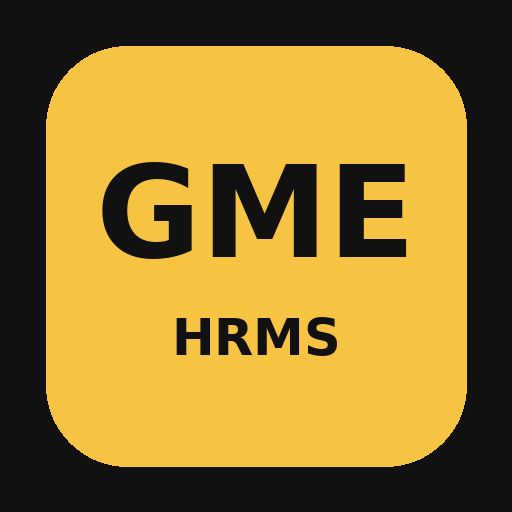
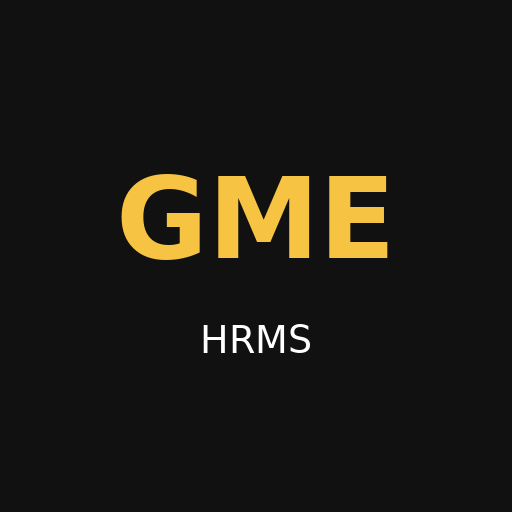
Add files via upload

diff --git a/index.html b/index.html
@@ -3,7 +3,7 @@
 <head>
 <meta charset="UTF-8">
 <meta name="viewport" content="width=device-width,initial-scale=1.0">
-<title>GME HRMS Professional v4.1 PWA</title>
+<title>GME HRMS Professional v4.2 PWA</title>
 <meta name="theme-color" content="#111111">
 <meta name="apple-mobile-web-app-capable" content="yes">
 <meta name="apple-mobile-web-app-status-bar-style" content="black-translucent">
@@ -141,14 +141,23 @@ input[type=number]{text-align:right}.btn{border:0;border-radius:7px;padding:10px
 }
 @media(min-width:801px){.print-area{display:block}}
 
+
+/* Company Account Expense Ledger */
+.ledger-summary{display:grid;grid-template-columns:repeat(4,1fr);gap:10px;margin:12px 0}
+.ledger-summary .stat{min-height:88px}.attachment-list{display:flex;gap:6px;flex-wrap:wrap}
+.file-chip{display:inline-flex;align-items:center;gap:5px;padding:5px 8px;border:1px solid #ccc;border-radius:999px;background:#fafafa;font-size:11px;font-weight:700}
+.filter-bar{display:grid;grid-template-columns:1fr 1fr 1fr auto;gap:10px;align-items:end;margin-bottom:12px}
+@media(max-width:800px){.ledger-summary{grid-template-columns:1fr 1fr}.filter-bar{grid-template-columns:1fr 1fr}.filter-bar .btn{width:100%}}
+@media(max-width:480px){.ledger-summary{grid-template-columns:1fr}.filter-bar{grid-template-columns:1fr}}
+
 </style>
 </head>
 <body>
-<div class="mobile-topbar no-print"><button class="menu-toggle" type="button" onclick="toggleMobileMenu()">☰ Menu</button><strong>GME HRMS v4.1</strong><span id="pwaState" class="pwa-state">Ready</span></div>
+<div class="mobile-topbar no-print"><button class="menu-toggle" type="button" onclick="toggleMobileMenu()">☰ Menu</button><strong>GME HRMS v4.2</strong><span id="pwaState" class="pwa-state">Ready</span></div>
 <div id="offlineBanner" class="offline-banner">Offline mode — changes remain saved on this device</div>
 <div class="app">
 <aside class="sidebar no-print">
-<h1>GME HRMS Pro v4.1</h1><p>Installable PWA · Offline-first · Existing data kept</p>
+<h1>GME HRMS Pro v4.2</h1><p>Installable PWA · Offline-first · Existing data kept</p>
 <div class="nav">
 <button class="active" onclick="showPage('dashboard',this)">Dashboard</button>
 <button onclick="showPage('employees',this)">Employee Master</button>
@@ -160,7 +169,8 @@ input[type=number]{text-align:right}.btn{border:0;border-radius:7px;padding:10px
 <button onclick="showPage('exception',this)">Attendance Exception</button>
 <button onclick="showPage('assets',this)">Asset Issue</button>
 <button onclick="showPage('vehicles',this)">Vehicle Assignment</button>
-<button onclick="showPage('expenses',this)">Expense Management</button>
+<button onclick="showPage('expenses',this)">Staff Claims & Expenses</button>
+<button onclick="showPage('companyexpenses',this)">Company Account Expenses</button>
 <button onclick="showPage('blankforms',this)">Blank Forms</button>
 <button onclick="showPage('reports',this)">Reports</button>
 <button onclick="showPage('settings',this)">Settings</button>
@@ -171,7 +181,7 @@ input[type=number]{text-align:right}.btn{border:0;border-radius:7px;padding:10px
 <section id="dashboard" class="page">
 <div class="dashboard-welcome"><h2 id="welcomeGreeting">Welcome to GME HRMS</h2><p>Manage employees, payroll, claims and company records securely from this device.</p></div>
 <div class="card"><h2>Dashboard</h2><div class="card-body">
-<div class="grid3"><div class="stat"><b id="statEmployees">0</b>Active Employees</div><div class="stat"><b id="statAdvances">0</b>Salary Advance Records</div><div class="stat"><b id="statLeaves">0</b>Leave Records</div><div class="stat"><b id="statOutstations">0</b>Outstation Records</div><div class="stat"><b id="statExceptions">0</b>Attendance Exceptions</div><div class="stat"><b id="statAssets">0</b>Assets Issued</div><div class="stat"><b id="statVehicles">0</b>Vehicle Assignments</div><div class="stat"><b id="statPendingClaims">0</b>Pending Claims</div><div class="stat"><b id="statClaimTotal">RM 0.00</b>Claims This Month</div><div class="stat"><b id="statActivities">0</b>Staff Activities</div></div>
+<div class="grid3"><div class="stat"><b id="statEmployees">0</b>Active Employees</div><div class="stat"><b id="statAdvances">0</b>Salary Advance Records</div><div class="stat"><b id="statLeaves">0</b>Leave Records</div><div class="stat"><b id="statOutstations">0</b>Outstation Records</div><div class="stat"><b id="statExceptions">0</b>Attendance Exceptions</div><div class="stat"><b id="statAssets">0</b>Assets Issued</div><div class="stat"><b id="statVehicles">0</b>Vehicle Assignments</div><div class="stat"><b id="statPendingClaims">0</b>Pending Claims</div><div class="stat"><b id="statClaimTotal">RM 0.00</b>Claims This Month</div><div class="stat"><b id="statActivities">0</b>Staff Activities</div><div class="stat"><b id="statCompanyExpenseMonth">RM 0.00</b>Company Expenses This Month</div><div class="stat"><b id="statCompanyExpenseRecords">0</b>Company Expense Records</div></div>
 <div id="dashboardBackupStatus" class="backup-status warn" style="margin-top:14px">Backup status is being checked…</div>
 <p class="note">Your work is saved automatically in this browser. Export a JSON backup regularly so the records can be restored on another device or after browser data is cleared.</p>
 <button class="btn yellow" onclick="openBackupManager()">Open Backup Manager</button><button id="installAppBtn" class="btn green hidden" onclick="installPWA()">Install App</button><div id="iosInstallHelp" class="install-card hidden"><b>Install on iPhone / iPad</b>Open this site in Safari, tap <b>Share</b>, then choose <b>Add to Home Screen</b>.</div><input type="file" id="importFile" class="hidden" accept="application/json,.json" onchange="importBackup(event)">
@@ -380,6 +390,45 @@ input[type=number]{text-align:right}.btn{border:0;border-radius:7px;padding:10px
 <div id="claimPrint" class="print-area"></div>
 </section>
 
+
+<section id="companyexpenses" class="page hidden">
+<div class="card"><h2>Company Account Expenses</h2><div class="card-body">
+<p class="note">Record payments made directly using the company bank account, company debit card, DuitNow, cheque or company cash. These records are separate from staff claims and payroll reimbursements.</p>
+<div class="grid3">
+<div><label>Expense Record No.</label><input id="coExpNo" readonly></div>
+<div><label>Payment Date</label><input id="coExpDate" type="date"></div>
+<div><label>Accounting Month</label><input id="coExpMonth" type="month"></div>
+<div><label>Supplier / Payee</label><input id="coExpSupplier" placeholder="Company or person paid"></div>
+<div><label>Expense Category</label><select id="coExpCategory"><option>Battery / Stock Purchase</option><option>Vehicle & Fuel</option><option>Shop Rental</option><option>Utilities</option><option>Telephone / Internet</option><option>Salary / Payroll Payment</option><option>EPF / SOCSO / EIS</option><option>Tax / Government Fee</option><option>Office Supplies</option><option>Equipment / Tools</option><option>Repairs & Maintenance</option><option>Marketing / Advertising</option><option>Insurance</option><option>Professional Fee</option><option>Bank Charges</option><option>Delivery / Courier</option><option>Staff Welfare</option><option>Other Company Expense</option></select></div>
+<div><label>Amount Paid (RM)</label><input id="coExpAmount" type="number" min="0" step="0.01" value="0"></div>
+<div><label>Paid From</label><select id="coExpAccount"><option>Company Bank Account</option><option>Company Debit Card</option><option>Company Credit Card</option><option>Company Cash</option><option>Cheque</option><option>DuitNow / Bank Transfer</option><option>Other Company Account</option></select></div>
+<div><label>Bank / Account Name</label><input id="coExpBank" placeholder="e.g. Public Bank Current Account"></div>
+<div><label>Payment Reference</label><input id="coExpReference" placeholder="Transaction ID / cheque no. / invoice no."></div>
+<div><label>Invoice / Receipt No.</label><input id="coExpInvoice"></div>
+<div><label>Payment Status</label><select id="coExpStatus"><option>Paid</option><option>Pending</option><option>Partially Paid</option><option>Cancelled</option></select></div>
+<div><label>Tax Treatment</label><select id="coExpTax"><option>Normal Business Expense</option><option>Capital / Asset Purchase</option><option>Non-Deductible / Personal</option><option>To Be Confirmed</option></select></div>
+</div>
+<label>Description / Purpose</label><textarea id="coExpDescription" placeholder="What was purchased or why this payment was made"></textarea>
+<div class="grid2">
+<div><label>Upload Invoices / Receipts / Pictures</label><input id="coExpFiles" type="file" multiple accept="image/*,.pdf,.doc,.docx,.xls,.xlsx" capture="environment"><p class="note">You may select several files. On iPhone, this can also open the camera. Keep each file reasonably small because files are stored in this browser and included in JSON backups.</p></div>
+<div><label>Attachment Remarks</label><input id="coExpFileRemarks" placeholder="Optional notes for uploaded documents"><div id="coExpExistingFiles" class="attachment-list" style="margin-top:8px"></div></div>
+</div>
+<button class="btn yellow" onclick="newCompanyExpense()">New Record</button>
+<button class="btn green" onclick="saveCompanyExpense()">Save Company Expense</button>
+<button class="btn red" onclick="deleteCompanyExpense()">Delete Selected</button>
+</div></div>
+<div class="card"><h2>Monthly Company Expense Tracking</h2><div class="card-body">
+<div class="filter-bar">
+<div><label>Month</label><input id="coExpFilterMonth" type="month" onchange="refreshCompanyExpenseRegister()"></div>
+<div><label>Category</label><select id="coExpFilterCategory" onchange="refreshCompanyExpenseRegister()"><option value="">All Categories</option></select></div>
+<div><label>Search</label><input id="coExpSearch" placeholder="Supplier, reference or description" oninput="refreshCompanyExpenseRegister()"></div>
+<button class="btn secondary" onclick="exportCompanyExpensesCSV()">Export CSV</button>
+</div>
+<div class="ledger-summary"><div class="stat"><b id="coExpMonthTotal">RM 0.00</b>Selected Month Total</div><div class="stat"><b id="coExpPaidTotal">RM 0.00</b>Paid Total</div><div class="stat"><b id="coExpPendingTotal">RM 0.00</b>Pending / Partial</div><div class="stat"><b id="coExpRecordCount">0</b>Records</div></div>
+<table class="table" id="companyExpenseTable"></table>
+</div></div>
+</section>
+
 <section id="blankforms" class="page hidden"><div class="card"><h2>Blank Forms</h2><div class="card-body">
 <button class="btn yellow" onclick="showPage('advance');generateAdvanceForm(true);printOnly('advance')">Print Blank Salary Advance Form</button>
 <button class="btn yellow" onclick="showPage('leave');generateLeaveForm(true);printOnly('leave')">Print Blank Leave Form</button>
@@ -391,7 +440,7 @@ input[type=number]{text-align:right}.btn{border:0;border-radius:7px;padding:10px
 <button class="btn secondary" onclick="showPage('payroll');generatePayslip(true);printOnly('payroll')">Print Blank Payslip</button>
 </div></div></section>
 
-<section id="reports" class="page hidden"><div class="card"><h2>Reports</h2><div class="card-body"><h3>Salary Advance Records</h3><table class="table" id="advanceTable"></table><h3>Leave Records</h3><table class="table" id="leaveTable"></table><h3>Outstation Allowance Records</h3><table class="table" id="outstationTable"></table><h3>Attendance Exception Records</h3><table class="table" id="exceptionTable"></table><h3>Asset Records</h3><table class="table" id="assetTable"></table><h3>Vehicle Assignment Records</h3><table class="table" id="vehicleTable"></table><h3>Expense & Claim Records</h3><table class="table" id="expenseTable"></table></div></div></section>
+<section id="reports" class="page hidden"><div class="card"><h2>Reports</h2><div class="card-body"><h3>Salary Advance Records</h3><table class="table" id="advanceTable"></table><h3>Leave Records</h3><table class="table" id="leaveTable"></table><h3>Outstation Allowance Records</h3><table class="table" id="outstationTable"></table><h3>Attendance Exception Records</h3><table class="table" id="exceptionTable"></table><h3>Asset Records</h3><table class="table" id="assetTable"></table><h3>Vehicle Assignment Records</h3><table class="table" id="vehicleTable"></table><h3>Expense & Claim Records</h3><table class="table" id="expenseTable"></table><h3>Company Account Expense Records</h3><table class="table" id="companyExpenseReportTable"></table></div></div></section>
 <section id="settings" class="page hidden"><div class="card"><h2>Company Settings</h2><div class="card-body"><div class="grid2"><div><label>Company Name</label><input id="setCompanyName"></div><div><label>Company Registration No.</label><input id="setCompanyNo"></div><div><label>Telephone</label><input id="setTel"></div><div><label>Email</label><input id="setEmail"></div><div style="grid-column:1/-1"><label>Address</label><textarea id="setAddress"></textarea></div>
 <div><label>Working Hours (Mon–Fri)</label><input id="setWeekdayHours" value="Monday to Friday, 8:00 AM – 5:00 PM"></div>
 <div><label>Working Hours (Saturday)</label><input id="setSaturdayHours" value="Saturday, 8:00 AM – 1:00 PM"></div>
@@ -439,14 +488,14 @@ input[type=number]{text-align:right}.btn{border:0;border-radius:7px;padding:10px
 </div>
 
 <script>
-const defaultData={settings:{companyName:'GME MARKETING',companyNo:'0000200330T',tel:'[phone redacted]',email:'[email redacted]',address:'G-G-60, Lorong Inanam Kapital 5, Inanam Kapital,\\nJalan Nountun, Inanam, 88450 Kota Kinabalu, Sabah',weekdayHours:'Monday to Friday, 8:00 AM – 5:00 PM',saturdayHours:'Saturday, 8:00 AM – 1:00 PM',restDay:'Sunday',publicHoliday:'Malaysia gazetted public holidays applicable in Sabah',probation:'3 months',notice:'1 month',salaryPayment:'On or before the 7th day of the following month',outstationRate:70},employees:[{id:'EMP001',name:'Kwan Khar Lien',ic:'[phone redacted]',position:'General Manager',department:'',bank:'Hong Leong [phone redacted]',salary:2000,allowance:1000,epf:'',socso:'',tax:'',annualEntitlement:8,sickEntitlement:14,documents:[],status:'Active'},{id:'EMP002',name:'Sabri Bin Aris',ic:'[phone redacted]',position:'Store Supervisor',department:'',bank:'Public Bank [phone redacted]',salary:2000,allowance:0,epf:'',socso:'',tax:'',annualEntitlement:8,sickEntitlement:14,documents:[],status:'Active'},{id:'EMP003',name:'John Abed Amran @ Alfred',ic:'[phone redacted]',position:'Lorry Driver',department:'',bank:'',salary:2300,allowance:0,epf:'',socso:'',tax:'',annualEntitlement:8,sickEntitlement:14,documents:[],status:'Active'}],advances:[],leaves:[],outstations:[],exceptions:[],assets:[],vehicles:[],claims:[]}
+const defaultData={settings:{companyName:'GME MARKETING',companyNo:'0000200330T',tel:'[phone redacted]',email:'[email redacted]',address:'G-G-60, Lorong Inanam Kapital 5, Inanam Kapital,\\nJalan Nountun, Inanam, 88450 Kota Kinabalu, Sabah',weekdayHours:'Monday to Friday, 8:00 AM – 5:00 PM',saturdayHours:'Saturday, 8:00 AM – 1:00 PM',restDay:'Sunday',publicHoliday:'Malaysia gazetted public holidays applicable in Sabah',probation:'3 months',notice:'1 month',salaryPayment:'On or before the 7th day of the following month',outstationRate:70},employees:[{id:'EMP001',name:'Kwan Khar Lien',ic:'[phone redacted]',position:'General Manager',department:'',bank:'Hong Leong [phone redacted]',salary:2000,allowance:1000,epf:'',socso:'',tax:'',annualEntitlement:8,sickEntitlement:14,documents:[],status:'Active'},{id:'EMP002',name:'Sabri Bin Aris',ic:'[phone redacted]',position:'Store Supervisor',department:'',bank:'Public Bank [phone redacted]',salary:2000,allowance:0,epf:'',socso:'',tax:'',annualEntitlement:8,sickEntitlement:14,documents:[],status:'Active'},{id:'EMP003',name:'John Abed Amran @ Alfred',ic:'[phone redacted]',position:'Lorry Driver',department:'',bank:'',salary:2300,allowance:0,epf:'',socso:'',tax:'',annualEntitlement:8,sickEntitlement:14,documents:[],status:'Active'}],advances:[],leaves:[],outstations:[],exceptions:[],assets:[],vehicles:[],claims:[],companyExpenses:[]}
 let db=JSON.parse(localStorage.getItem('gmeHRMSv2')||'null')||defaultData, selectedEmpId='';
-function migrateDB(){db.settings=db.settings||defaultData.settings; db.settings.weekdayHours='Monday to Friday, 8:00 AM – 5:00 PM'; db.settings.saturdayHours='Saturday, 8:00 AM – 1:00 PM'; db.settings.restDay='Sunday'; db.settings.publicHoliday='Malaysia gazetted public holidays applicable in Sabah'; db.employees=db.employees||[]; db.advances=db.advances||[]; db.leaves=db.leaves||[]; db.outstations=db.outstations||[]; db.exceptions=db.exceptions||[]; db.assets=db.assets||[]; db.vehicles=db.vehicles||[]; db.claims=db.claims||[]; db.version='4.1';}
+function migrateDB(){db.settings=db.settings||defaultData.settings; db.settings.weekdayHours='Monday to Friday, 8:00 AM – 5:00 PM'; db.settings.saturdayHours='Saturday, 8:00 AM – 1:00 PM'; db.settings.restDay='Sunday'; db.settings.publicHoliday='Malaysia gazetted public holidays applicable in Sabah'; db.employees=db.employees||[]; db.advances=db.advances||[]; db.leaves=db.leaves||[]; db.outstations=db.outstations||[]; db.exceptions=db.exceptions||[]; db.assets=db.assets||[]; db.vehicles=db.vehicles||[]; db.claims=db.claims||[]; db.companyExpenses=db.companyExpenses||[]; db.version='4.2';}
 migrateDB();
 function saveDB(){localStorage.setItem('gmeHRMSv2',JSON.stringify(db));markBackupDirty();refreshAll()}function today(){return new Date().toISOString().slice(0,10)}function monthNow(){let d=new Date();return d.getFullYear()+'-'+String(d.getMonth()+1).padStart(2,'0')}function money(v){return Number(v||0).toLocaleString('en-MY',{minimumFractionDigits:2,maximumFractionDigits:2})}function num(id){return Number(document.getElementById(id)?.value||0)}function emp(id){return db.employees.find(e=>e.id===id)||{}}
 function showPage(id,btn){document.querySelectorAll('.page').forEach(p=>p.classList.add('hidden'));document.getElementById(id).classList.remove('hidden');document.querySelectorAll('.nav button').forEach(b=>b.classList.remove('active'));if(btn)btn.classList.add('active');document.querySelectorAll('.mobile-bottom-nav button').forEach(b=>b.classList.toggle('active',b.dataset.page===id));if(window.innerWidth<=800)window.scrollTo({top:0,behavior:'smooth'});} function mobileGo(id,btn){showPage(id);document.querySelectorAll('.mobile-bottom-nav button').forEach(b=>b.classList.remove('active'));btn.classList.add('active')}
 function nextEmpId(){let max=0;db.employees.forEach(e=>{let m=e.id.match(/(\\d+)/);if(m)max=Math.max(max,+m[1])});return 'EMP'+String(max+1).padStart(3,'0')}
-function refreshAll(){refreshEmployees();refreshSelects();refreshReports();statEmployees.textContent=db.employees.filter(e=>e.status==='Active').length;statAdvances.textContent=db.advances.length;statLeaves.textContent=db.leaves.length;if(document.getElementById('statOutstations'))statOutstations.textContent=(db.outstations||[]).length; if(document.getElementById('statExceptions'))statExceptions.textContent=(db.exceptions||[]).length; if(document.getElementById('statAssets'))statAssets.textContent=(db.assets||[]).filter(a=>a.status==='Issued').length; if(document.getElementById('statVehicles'))statVehicles.textContent=(db.vehicles||[]).filter(v=>v.status==='Assigned').length; if(document.getElementById('statPendingClaims'))statPendingClaims.textContent=(db.claims||[]).filter(c=>['Submitted','Approved'].includes(c.status)).length; if(document.getElementById('statClaimTotal')){let m=monthNow();let total=(db.claims||[]).filter(c=>(c.expenseDate||'').startsWith(m)).reduce((a,c)=>a+Number(c.amount||0),0);statClaimTotal.textContent='RM '+money(total)} if(document.getElementById('statActivities'))statActivities.textContent=(db.claims||[]).filter(c=>c.type==='Staff Welfare / Engagement').length}
+function refreshAll(){refreshEmployees();refreshSelects();refreshReports();statEmployees.textContent=db.employees.filter(e=>e.status==='Active').length;statAdvances.textContent=db.advances.length;statLeaves.textContent=db.leaves.length;if(document.getElementById('statOutstations'))statOutstations.textContent=(db.outstations||[]).length; if(document.getElementById('statExceptions'))statExceptions.textContent=(db.exceptions||[]).length; if(document.getElementById('statAssets'))statAssets.textContent=(db.assets||[]).filter(a=>a.status==='Issued').length; if(document.getElementById('statVehicles'))statVehicles.textContent=(db.vehicles||[]).filter(v=>v.status==='Assigned').length; if(document.getElementById('statPendingClaims'))statPendingClaims.textContent=(db.claims||[]).filter(c=>['Submitted','Approved'].includes(c.status)).length; if(document.getElementById('statClaimTotal')){let m=monthNow();let total=(db.claims||[]).filter(c=>(c.expenseDate||'').startsWith(m)).reduce((a,c)=>a+Number(c.amount||0),0);statClaimTotal.textContent='RM '+money(total)} if(document.getElementById('statActivities'))statActivities.textContent=(db.claims||[]).filter(c=>c.type==='Staff Welfare / Engagement').length; if(document.getElementById('statCompanyExpenseMonth')){let m=monthNow();let t=(db.companyExpenses||[]).filter(x=>(x.month||x.date||'').startsWith(m)&&x.status!=='Cancelled').reduce((s,x)=>s+Number(x.amount||0),0);statCompanyExpenseMonth.textContent='RM '+money(t)} if(document.getElementById('statCompanyExpenseRecords'))statCompanyExpenseRecords.textContent=(db.companyExpenses||[]).length; refreshCompanyExpenseRegister()}
 function refreshEmployees(){employeeTable.innerHTML='<tr><th>ID</th><th>Name</th><th>Position</th><th>Salary</th><th>Status</th><th>Action</th></tr>'+db.employees.map(e=>`<tr><td>${e.id}</td><td>${e.name}</td><td>${e.position||''}</td><td>RM ${money(e.salary)}</td><td>${e.status}</td><td><button class="btn secondary" onclick="editEmployee('${e.id}')">Edit</button></td></tr>`).join('')}
 function refreshSelects(){['payEmployee','advEmployee','leaveEmployee','contractEmployee','outEmployee','exEmployee','assetEmployee','vehEmployee','claimEmployee'].forEach(id=>{let s=document.getElementById(id);if(!s)return;s.innerHTML='<option value="">-- Select Employee --</option>'+db.employees.filter(e=>e.status==='Active').map(e=>`<option value="${e.id}">${e.id} - ${e.name}</option>`).join('')})}
 function newEmployee(){selectedEmpId='';empName.value='';empId.value=nextEmpId();empIc.value='';empPosition.value='';empDepartment.value='';empBank.value='';empEpf.value='';empSocso.value='';empTax.value='';empSalary.value=2000;empAllowance.value=0;empAnnualEntitlement.value=8;empSickEntitlement.value=14;empStatus.value='Active';refreshDocuments()}
@@ -689,6 +738,22 @@ function deleteClaim(no){if(confirm('Delete this claim record?')){db.claims=(db.
 function refreshClaimRegister(){let t=document.getElementById('claimRegisterTable');if(!t)return;t.innerHTML='<tr><th>Claim No.</th><th>Employee</th><th>Date</th><th>Type</th><th>Description</th><th>Budget</th><th>Actual</th><th>Status</th><th>Action</th></tr>'+(db.claims||[]).map(c=>`<tr><td>${c.no||''}</td><td>${emp(c.employee).name||c.employee||''}</td><td>${c.expenseDate||''}</td><td>${c.type||''}</td><td>${c.category||c.description||''}</td><td>RM ${money(c.budget)}</td><td>RM ${money(c.amount)}</td><td>${c.status||''}</td><td><button class="btn secondary" onclick="editClaim('${c.no}')">Edit</button>${c.receipt?`<button class="btn secondary" onclick="openClaimReceipt('${c.no}')">Receipt</button>`:''}<button class="btn red" onclick="deleteClaim('${c.no}')">Delete</button></td></tr>`).join('')}
 function generateClaimForm(blank=false){let c=blank?{}:(db.claims||[]).find(x=>x.no===claimNo.value)||{no:claimNo.value,employee:claimEmployee.value,claimDate:claimDate.value,expenseDate:expenseDate.value,type:claimType.value,category:claimCategory.value,customer:claimCustomer.value,project:claimProject.value,paidBy:claimPaidBy.value,budget:num('claimBudget'),amount:num('claimAmount'),variance:num('claimVariance'),budgetStatus:claimBudgetStatus.value,status:claimStatus.value,approvedBy:claimApprovedBy.value,paymentDate:claimPaymentDate.value,reimburseMethod:claimReimburseMethod.value,description:claimDescription.value,activity:{name:activityName.value,date:activityDate.value,venue:activityVenue.value,organizer:activityOrganizer.value,participants:num('activityParticipants'),names:activityNames.value}};let e=blank?{}:emp(c.employee);let activity=(c.type==='Staff Welfare / Engagement')?`<div class="fbox"><div class="fhead">D. STAFF WELFARE / ENGAGEMENT DETAILS</div>${row('Activity Name',c.activity?.name)}${row('Activity Date',c.activity?.date)}${row('Venue',c.activity?.venue)}${row('Organizer',c.activity?.organizer)}${row('No. of Participants',c.activity?.participants)}${row('Participants',c.activity?.names)}</div>`:'';claimPrint.innerHTML=`<div class="a4">${header('EXPENSE &<br>CLAIM FORM')}<div class="fx2"><div class="fbox"><div class="fhead">A. CLAIMANT INFORMATION</div>${row('Employee Name',e.name)}${row('Employee ID',e.id)}${row('Position',e.position)}${row('Department',e.department)}</div><div class="fbox"><div class="fhead">B. CLAIM INFORMATION</div>${row('Claim No.',blank?'':c.no)}${row('Claim Date',blank?'':c.claimDate)}${row('Expense Date',blank?'':c.expenseDate)}${row('Expense Type',blank?'':c.type)}${row('Category / Item',blank?'':c.category)}${row('Status',blank?'':c.status)}</div></div><div class="fx2"><div class="fbox"><div class="fhead">C. EXPENSE DETAILS</div>${row('Customer / Supplier',blank?'':c.customer)}${row('Project / Job',blank?'':c.project)}${row('Paid By',blank?'':c.paidBy)}${row('Budget Amount',blank?'':'RM '+money(c.budget))}${row('Actual / Claimed',blank?'':'RM '+money(c.amount))}${row('Variance',blank?'':'RM '+money(c.variance))}${row('Budget Status',blank?'':c.budgetStatus)}</div><div class="fbox"><div class="fhead">PAYMENT & APPROVAL</div>${row('Approved By',blank?'':c.approvedBy)}${row('Payment Date',blank?'':c.paymentDate)}${row('Reimbursement Method',blank?'':c.reimburseMethod)}${row('Receipt Attached',blank?'':(c.receipt?'Yes':'No'))}</div></div>${activity}<div class="fbox"><div class="fhead">E. DESCRIPTION / BUSINESS PURPOSE</div><div style="padding:4mm"><div class="multi-line">${blank?'':c.description||''}</div><div class="multi-line"></div></div></div><div class="signature"><div class="sig">Submitted By</div><div class="sig">Checked By</div><div class="sig">Approved By</div></div><div class="footer">Generated by GME Marketing HRMS Professional v4.1</div></div>`}
 
+
+let selectedCompanyExpenseNo='';
+function nextCompanyExpenseNo(){let y=new Date().getFullYear(),max=0;(db.companyExpenses||[]).forEach(x=>{let m=String(x.no||'').match(/(\d+)$/);if(m)max=Math.max(max,Number(m[1]))});return 'CEX-'+y+'-'+String(max+1).padStart(4,'0')}
+function newCompanyExpense(){selectedCompanyExpenseNo='';coExpNo.value=nextCompanyExpenseNo();coExpDate.value=today();coExpMonth.value=monthNow();coExpSupplier.value='';coExpCategory.selectedIndex=0;coExpAmount.value=0;coExpAccount.value='Company Bank Account';coExpBank.value='';coExpReference.value='';coExpInvoice.value='';coExpStatus.value='Paid';coExpTax.value='Normal Business Expense';coExpDescription.value='';coExpFiles.value='';coExpFileRemarks.value='';renderCompanyExpenseFiles([])}
+function readCompanyExpenseFiles(){return Promise.all(Array.from(coExpFiles.files||[]).map(f=>new Promise(resolve=>{if(f.size>8*1024*1024){resolve({error:true,name:f.name});return}let r=new FileReader();r.onload=()=>resolve({name:f.name,type:f.type,size:f.size,data:r.result,remarks:coExpFileRemarks.value,uploadedAt:new Date().toISOString()});r.onerror=()=>resolve(null);r.readAsDataURL(f)})))}
+async function saveCompanyExpense(){if(!coExpDate.value){alert('Please enter the payment date.');return}if(!coExpSupplier.value.trim()){alert('Please enter supplier / payee.');return}if(num('coExpAmount')<=0){alert('Please enter the amount paid.');return}let existing=(db.companyExpenses||[]).find(x=>x.no===coExpNo.value);let files=await readCompanyExpenseFiles();let tooLarge=files.filter(x=>x?.error);if(tooLarge.length){alert('These files are above 8 MB and were not added: '+tooLarge.map(x=>x.name).join(', '));}let valid=files.filter(x=>x&&!x.error);let record={no:coExpNo.value||nextCompanyExpenseNo(),date:coExpDate.value,month:coExpMonth.value||coExpDate.value.slice(0,7),supplier:coExpSupplier.value.trim(),category:coExpCategory.value,amount:num('coExpAmount'),account:coExpAccount.value,bank:coExpBank.value,reference:coExpReference.value,invoice:coExpInvoice.value,status:coExpStatus.value,taxTreatment:coExpTax.value,description:coExpDescription.value,attachments:[...((existing&&existing.attachments)||[]),...valid],updatedAt:new Date().toISOString()};db.companyExpenses=db.companyExpenses||[];let i=db.companyExpenses.findIndex(x=>x.no===record.no);i>=0?db.companyExpenses[i]=record:db.companyExpenses.push(record);selectedCompanyExpenseNo=record.no;saveDB();coExpFiles.value='';renderCompanyExpenseFiles(record.attachments);alert('Company account expense saved.')}
+function editCompanyExpense(no){let x=(db.companyExpenses||[]).find(e=>e.no===no);if(!x)return;selectedCompanyExpenseNo=x.no;coExpNo.value=x.no;coExpDate.value=x.date||'';coExpMonth.value=x.month||String(x.date||'').slice(0,7);coExpSupplier.value=x.supplier||'';coExpCategory.value=x.category||'Other Company Expense';coExpAmount.value=x.amount||0;coExpAccount.value=x.account||'Company Bank Account';coExpBank.value=x.bank||'';coExpReference.value=x.reference||'';coExpInvoice.value=x.invoice||'';coExpStatus.value=x.status||'Paid';coExpTax.value=x.taxTreatment||'To Be Confirmed';coExpDescription.value=x.description||'';coExpFiles.value='';coExpFileRemarks.value='';renderCompanyExpenseFiles(x.attachments||[]);showPage('companyexpenses');window.scrollTo({top:0,behavior:'smooth'})}
+function deleteCompanyExpense(){let no=selectedCompanyExpenseNo||coExpNo.value;if(!no||!(db.companyExpenses||[]).some(x=>x.no===no)){alert('Please select an existing record first.');return}if(confirm('Delete company expense '+no+'?')){db.companyExpenses=(db.companyExpenses||[]).filter(x=>x.no!==no);saveDB();newCompanyExpense()}}
+function renderCompanyExpenseFiles(files){let box=document.getElementById('coExpExistingFiles');if(!box)return;box.innerHTML=files.length?files.map((f,i)=>`<span class="file-chip">📎 ${escapeHtml(f.name||'Attachment')} <button type="button" class="btn secondary" style="min-height:28px;padding:3px 7px;margin:0" onclick="openCompanyExpenseFile(${i})">Open</button><button type="button" class="btn red" style="min-height:28px;padding:3px 7px;margin:0" onclick="removeCompanyExpenseFile(${i})">×</button></span>`).join(''):'<span class="note">No attachment saved.</span>'}
+function openCompanyExpenseFile(index){let x=(db.companyExpenses||[]).find(e=>e.no===(selectedCompanyExpenseNo||coExpNo.value));let f=x?.attachments?.[index];if(!f?.data){alert('Attachment not found.');return}let a=document.createElement('a');a.href=f.data;a.download=f.name||'attachment';a.target='_blank';a.click()}
+function removeCompanyExpenseFile(index){let x=(db.companyExpenses||[]).find(e=>e.no===(selectedCompanyExpenseNo||coExpNo.value));if(!x)return;if(confirm('Remove this attachment?')){x.attachments.splice(index,1);saveDB();renderCompanyExpenseFiles(x.attachments)}}
+function escapeHtml(v){return String(v??'').replace(/[&<>"']/g,c=>({'&':'&amp;','<':'&lt;','>':'&gt;','"':'&quot;',"'":'&#039;'}[c]))}
+function companyExpenseFiltered(){let m=document.getElementById('coExpFilterMonth')?.value||'',cat=document.getElementById('coExpFilterCategory')?.value||'',q=(document.getElementById('coExpSearch')?.value||'').toLowerCase();return (db.companyExpenses||[]).filter(x=>(!m||(x.month||x.date||'').startsWith(m))&&(!cat||x.category===cat)&&(!q||[x.no,x.supplier,x.reference,x.invoice,x.description,x.category].join(' ').toLowerCase().includes(q))).sort((a,b)=>String(b.date||'').localeCompare(String(a.date||'')))}
+function refreshCompanyExpenseRegister(){let cat=document.getElementById('coExpFilterCategory');if(cat&&cat.options.length<=1){let current=cat.value;let cats=[...new Set((db.companyExpenses||[]).map(x=>x.category).filter(Boolean))].sort();cat.innerHTML='<option value="">All Categories</option>'+cats.map(x=>`<option>${escapeHtml(x)}</option>`).join('');cat.value=current}let rows=companyExpenseFiltered();let total=rows.filter(x=>x.status!=='Cancelled').reduce((s,x)=>s+Number(x.amount||0),0),paid=rows.filter(x=>x.status==='Paid').reduce((s,x)=>s+Number(x.amount||0),0),pending=rows.filter(x=>['Pending','Partially Paid'].includes(x.status)).reduce((s,x)=>s+Number(x.amount||0),0);if(document.getElementById('coExpMonthTotal'))coExpMonthTotal.textContent='RM '+money(total);if(document.getElementById('coExpPaidTotal'))coExpPaidTotal.textContent='RM '+money(paid);if(document.getElementById('coExpPendingTotal'))coExpPendingTotal.textContent='RM '+money(pending);if(document.getElementById('coExpRecordCount'))coExpRecordCount.textContent=rows.length;let t=document.getElementById('companyExpenseTable');if(t)t.innerHTML='<tr><th>No.</th><th>Date</th><th>Supplier / Payee</th><th>Category</th><th>Paid From</th><th>Reference</th><th>Amount</th><th>Status</th><th>Files</th><th>Action</th></tr>'+rows.map(x=>`<tr><td>${escapeHtml(x.no)}</td><td>${escapeHtml(x.date)}</td><td>${escapeHtml(x.supplier)}</td><td>${escapeHtml(x.category)}</td><td>${escapeHtml(x.account)}</td><td>${escapeHtml(x.reference||x.invoice||'')}</td><td>RM ${money(x.amount)}</td><td>${escapeHtml(x.status)}</td><td>${(x.attachments||[]).length}</td><td><button class="btn secondary" onclick="editCompanyExpense('${x.no}')">Edit</button></td></tr>`).join('')}
+function exportCompanyExpensesCSV(){let rows=companyExpenseFiltered();if(!rows.length){alert('No company expense records found for the selected filter.');return}let headers=['Record No','Payment Date','Accounting Month','Supplier / Payee','Category','Description','Paid From','Bank / Account','Payment Reference','Invoice / Receipt No','Amount (RM)','Status','Tax Treatment','Attachment Count'];let csv=[headers,...rows.map(x=>[x.no,x.date,x.month,x.supplier,x.category,x.description,x.account,x.bank,x.reference,x.invoice,Number(x.amount||0).toFixed(2),x.status,x.taxTreatment,(x.attachments||[]).length])].map(r=>r.map(v=>'"'+String(v??'').replace(/"/g,'""')+'"').join(',')).join('\r\n');let blob=new Blob(['\ufeff'+csv],{type:'text/csv;charset=utf-8'}),a=document.createElement('a'),url=URL.createObjectURL(blob);a.href=url;a.download='GME_Company_Expenses_'+(coExpFilterMonth.value||'All')+'.csv';a.click();setTimeout(()=>URL.revokeObjectURL(url),1000)}
+
 function refreshReports(){
  refreshClaimRegister();
  advanceTable.innerHTML='<tr><th>Employee</th><th>Date</th><th>Amount</th><th>Type</th><th>Status</th></tr>'+db.advances.map(a=>`<tr><td>${a.employee}</td><td>${a.date}</td><td>RM ${money(a.amount)}</td><td>${a.type}</td><td>${a.status}</td></tr>`).join('');
@@ -698,6 +763,7 @@ function refreshReports(){
  if(document.getElementById('assetTable')) assetTable.innerHTML='<tr><th>Employee</th><th>Issue Date</th><th>Type</th><th>Description</th><th>Serial</th><th>Status</th></tr>'+(db.assets||[]).map(a=>`<tr><td>${a.employee}</td><td>${a.issueDate}</td><td>${a.type}</td><td>${a.desc||''}</td><td>${a.serial||''}</td><td>${a.status}</td></tr>`).join('');
  if(document.getElementById('vehicleTable')) vehicleTable.innerHTML='<tr><th>Employee</th><th>Date</th><th>Plate</th><th>Type</th><th>Fuel Card</th><th>TnG</th><th>Status</th></tr>'+(db.vehicles||[]).map(v=>`<tr><td>${v.employee}</td><td>${v.date}</td><td>${v.plate||''}</td><td>${v.type||''}</td><td>${v.fuelCard||''}</td><td>${v.tng||''}</td><td>${v.status}</td></tr>`).join('');
  if(document.getElementById('expenseTable')) expenseTable.innerHTML='<tr><th>Claim No.</th><th>Employee</th><th>Date</th><th>Type</th><th>Amount</th><th>Budget Status</th><th>Status</th></tr>'+(db.claims||[]).map(c=>`<tr><td>${c.no||''}</td><td>${emp(c.employee).name||c.employee||''}</td><td>${c.expenseDate||''}</td><td>${c.type||''}</td><td>RM ${money(c.amount)}</td><td>${c.budgetStatus||''}</td><td>${c.status||''}</td></tr>`).join('');
+ if(document.getElementById('companyExpenseReportTable')) companyExpenseReportTable.innerHTML='<tr><th>No.</th><th>Date</th><th>Supplier</th><th>Category</th><th>Paid From</th><th>Amount</th><th>Status</th></tr>'+(db.companyExpenses||[]).map(x=>`<tr><td>${escapeHtml(x.no||'')}</td><td>${escapeHtml(x.date||'')}</td><td>${escapeHtml(x.supplier||'')}</td><td>${escapeHtml(x.category||'')}</td><td>${escapeHtml(x.account||'')}</td><td>RM ${money(x.amount)}</td><td>${escapeHtml(x.status||'')}</td></tr>`).join('');
 }
 
 function generateContract(blank=false){
@@ -826,7 +892,7 @@ function exportBackup(){
   let a=document.createElement('a');
   const url=URL.createObjectURL(blob);
   a.href=url;
-  a.download='GME_HRMS_Professional_v4.1_Backup_'+now.toISOString().replace(/[:.]/g,'-')+'.json';
+  a.download='GME_HRMS_Professional_v4.2_Backup_'+now.toISOString().replace(/[:.]/g,'-')+'.json';
   document.body.appendChild(a);a.click();a.remove();setTimeout(()=>URL.revokeObjectURL(url),1000);
   const stamp=now.toISOString();
   localStorage.setItem('gmeHRMSLastBackup',stamp);
@@ -843,7 +909,7 @@ function renderBackupManager(){
  document.getElementById('bmLastBackup').textContent=last?new Date(last).toLocaleString('en-MY'):'Never';
  document.getElementById('bmDirty').textContent=backupDirty?'Yes — backup recommended':'No';
  document.getElementById('bmDbSize').textContent=formatBytes(databaseSize());
- document.getElementById('bmVersion').textContent='v'+(db.version||'4.0');
+ document.getElementById('bmVersion').textContent='v'+(db.version||'4.2');
  if(!last){status.className='backup-status warn';status.textContent='No JSON backup has been recorded. Please create your first backup now.'}
  else if(backupDirty){status.className='backup-status warn';status.textContent='Your records changed after the last backup. Create a fresh JSON backup before exiting.'}
  else if(age>=7){status.className='backup-status warn';status.textContent='Your last backup is '+age+' days old. A fresh backup is recommended.'}
@@ -924,6 +990,6 @@ function hidePreview(id){const el=document.getElementById(id);if(el)el.classList
 });
 function updateGreeting(){const h=new Date().getHours();const word=h<12?'Good morning':h<18?'Good afternoon':'Good evening';const el=document.getElementById('welcomeGreeting');if(el)el.textContent=word+' — GME HRMS';}
 
-window.onload=()=>{updateGreeting();updatePWAState();payDate.value=today();payMonth.value=monthNow();advRequestDate.value=today();leaveApplyDate.value=today(); if(document.getElementById('outStart')){outStart.value=today();outEnd.value=today();outRate.value=db.settings.outstationRate||70;calcOutstation();}contractStartDate.value=today(); if(document.getElementById('exDate'))exDate.value=today(); if(document.getElementById('assetIssueDate'))assetIssueDate.value=today(); if(document.getElementById('vehDate'))vehDate.value=today(); if(document.getElementById('claimDate'))newClaim(); if(document.getElementById('payClaimsReimbursement'))loadPayrollClaims(); newEmployee();loadSettings();refreshAll();updateDashboardBackupStatus()}
+window.onload=()=>{updateGreeting();updatePWAState();payDate.value=today();payMonth.value=monthNow();advRequestDate.value=today();leaveApplyDate.value=today(); if(document.getElementById('outStart')){outStart.value=today();outEnd.value=today();outRate.value=db.settings.outstationRate||70;calcOutstation();}contractStartDate.value=today(); if(document.getElementById('exDate'))exDate.value=today(); if(document.getElementById('assetIssueDate'))assetIssueDate.value=today(); if(document.getElementById('vehDate'))vehDate.value=today(); if(document.getElementById('claimDate'))newClaim(); if(document.getElementById('coExpDate')){newCompanyExpense();coExpFilterMonth.value=monthNow();refreshCompanyExpenseRegister();} if(document.getElementById('payClaimsReimbursement'))loadPayrollClaims(); newEmployee();loadSettings();refreshAll();updateDashboardBackupStatus()}
 </script>
 </body></html>

diff --git a/service-worker.js b/service-worker.js
@@ -1,5 +1,5 @@
-const CACHE='gme-hrms-v4.1.0';
+const CACHE='gme-hrms-v4.2';
 const ASSETS=['./','./index.html','./manifest.webmanifest','./icons/icon-192.png','./icons/icon-512.png'];
-self.addEventListener('install',event=>{event.waitUntil(caches.open(CACHE).then(cache=>cache.addAll(ASSETS)));self.skipWaiting();});
-self.addEventListener('activate',event=>{event.waitUntil(caches.keys().then(keys=>Promise.all(keys.filter(k=>k!==CACHE).map(k=>caches.delete(k)))));self.clients.claim();});
-self.addEventListener('fetch',event=>{if(event.request.method!=='GET')return;event.respondWith(fetch(event.request).then(response=>{const copy=response.clone();caches.open(CACHE).then(cache=>cache.put(event.request,copy));return response;}).catch(()=>caches.match(event.request).then(r=>r||caches.match('./index.html'))));});
+self.addEventListener('install',e=>e.waitUntil(caches.open(CACHE).then(c=>c.addAll(ASSETS)).then(()=>self.skipWaiting())));
+self.addEventListener('activate',e=>e.waitUntil(caches.keys().then(keys=>Promise.all(keys.filter(k=>k!==CACHE).map(k=>caches.delete(k)))).then(()=>self.clients.claim())));
+self.addEventListener('fetch',e=>{if(e.request.method!=='GET')return;e.respondWith(fetch(e.request).then(r=>{const copy=r.clone();caches.open(CACHE).then(c=>c.put(e.request,copy));return r}).catch(()=>caches.match(e.request).then(r=>r||caches.match('./index.html'))))});

diff --git a/README.md b/README.md
@@ -1,40 +1,13 @@
-# GME HRMS Professional v4.1 PWA
+# GME HRMS Professional v4.2 PWA
 
-## Important privacy warning
-This repository must contain only the application files. Do **not** upload employee backup JSON files, receipts, contracts, IC details, salary data, or other employee records to a public GitHub repository.
+Upload all files and the `icons` folder to the root of your GitHub Pages repository.
 
-## Publish using GitHub Pages
-1. Create a new GitHub repository, for example `GME-HRMS`.
-2. Upload everything inside this folder, keeping the `icons` folder structure.
-3. Open **Settings → Pages**.
-4. Under **Build and deployment**, choose **Deploy from a branch**.
-5. Select branch **main** and folder **/(root)**, then save.
-6. Open the Pages URL shown by GitHub.
+## New in v4.2
+- Separate Company Account Expenses ledger for payments made with company funds.
+- Multiple invoice, receipt, PDF and image attachments.
+- Monthly/category/search filtering and CSV export.
+- Dashboard and report totals.
+- Existing v3/v4 JSON backups remain compatible.
 
-## Restore your existing information
-The application data is stored separately in each browser. On your phone, open **Backup Manager → Restore JSON** and select your latest private backup file.
-
-## Install on iPhone / iPad
-Open the GitHub Pages URL in Safari → Share → Add to Home Screen.
-
-## Install on Android / desktop Chrome
-Open the site and use the **Install App** button or browser installation icon.
-
-## v4.1 changes
-- GitHub Pages and PWA support.
-- Offline caching after first successful visit.
-- Mobile menu and touch-friendly form controls.
-- Fixed allowance included in the statutory contribution basis.
-- Outstation allowance and claim reimbursements excluded from the statutory contribution basis.
-- Clear online/offline and installation guidance.
-- Existing v3.x JSON backups remain importable.
-
-## Payroll caution
-This offline app provides payroll estimates. Confirm EPF, SOCSO and EIS amounts against the latest official schedules before statutory submission.
-
-
-## v4.1 mobile changes
-- Bottom navigation for Home, Staff, Payroll and Claims.
-- Document previews stay hidden until generated.
-- Improved touch targets and mobile form spacing.
-- Responsive A4 preview scaling on phones.
+## Privacy
+Do not upload HRMS JSON backups, employee files, invoices or receipts to GitHub. Those records remain in browser storage and exported JSON backups.